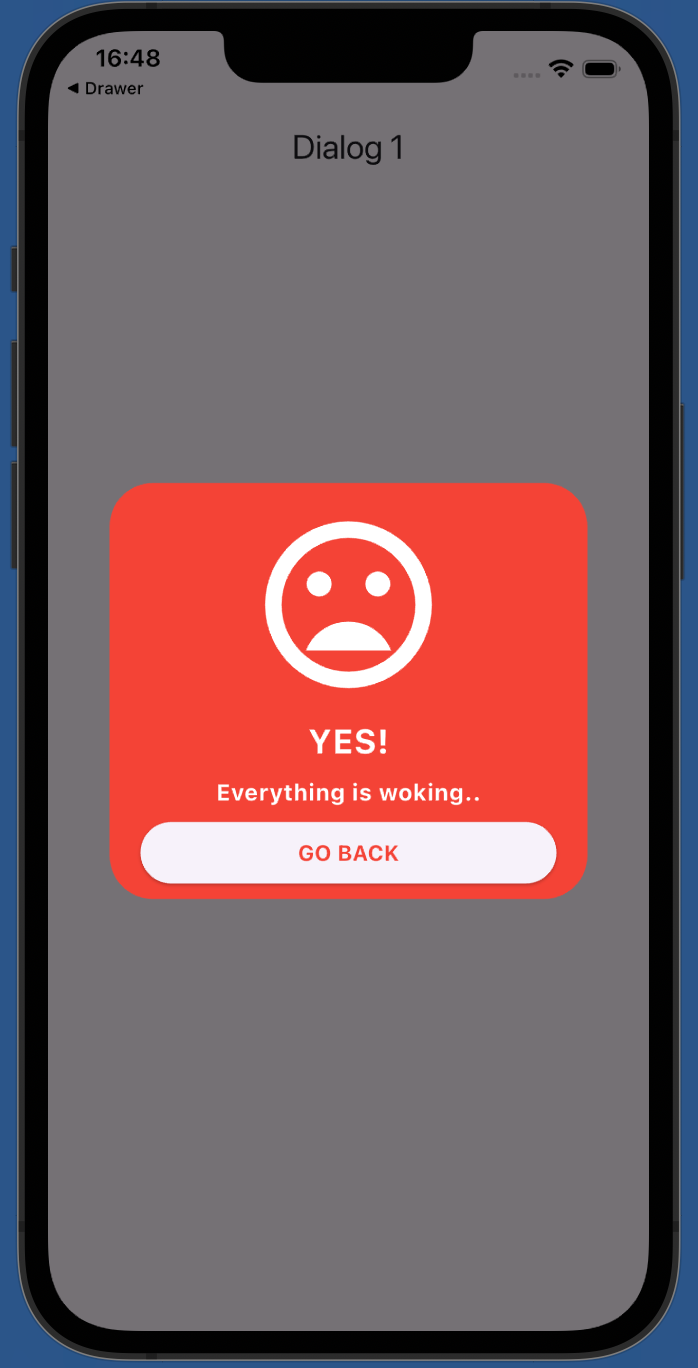
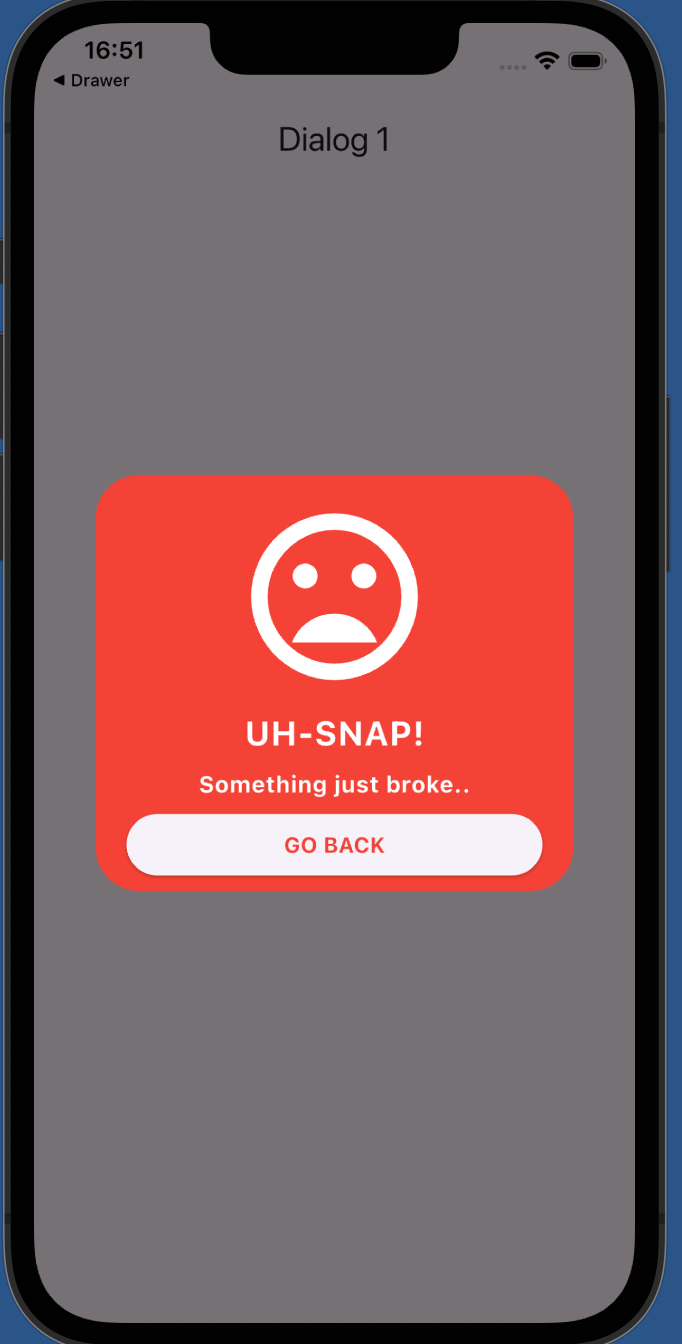
Dialog practice update

Changed region(s): [[0.0, 0.0, 0.9853, 1.0], [0.1232, 0.3438, 0.8314, 0.6875], [0.4003, 0.0938, 0.585, 0.125]]

diff --git a/lib/screen/dialog_1.dart b/lib/screen/dialog_1.dart
@@ -72,7 +72,7 @@ class Dialog1 extends StatelessWidget {
                 Icon(Icons.mood_bad, size: 130, color: Colors.white),
                 SizedBox(height: 7.5),
                 Text(
-                  "YES!",
+                  "UH-SNAP!",
                   style: TextStyle(
                     color: Colors.white,
                     fontSize: 22,
@@ -81,7 +81,7 @@ class Dialog1 extends StatelessWidget {
                 ),
                 SizedBox(height: 7.5),
                 Text(
-                  "Everything is woking..",
+                  "Something just broke..",
                   style: TextStyle(
                     color: Colors.white,
                     fontSize: 15,
